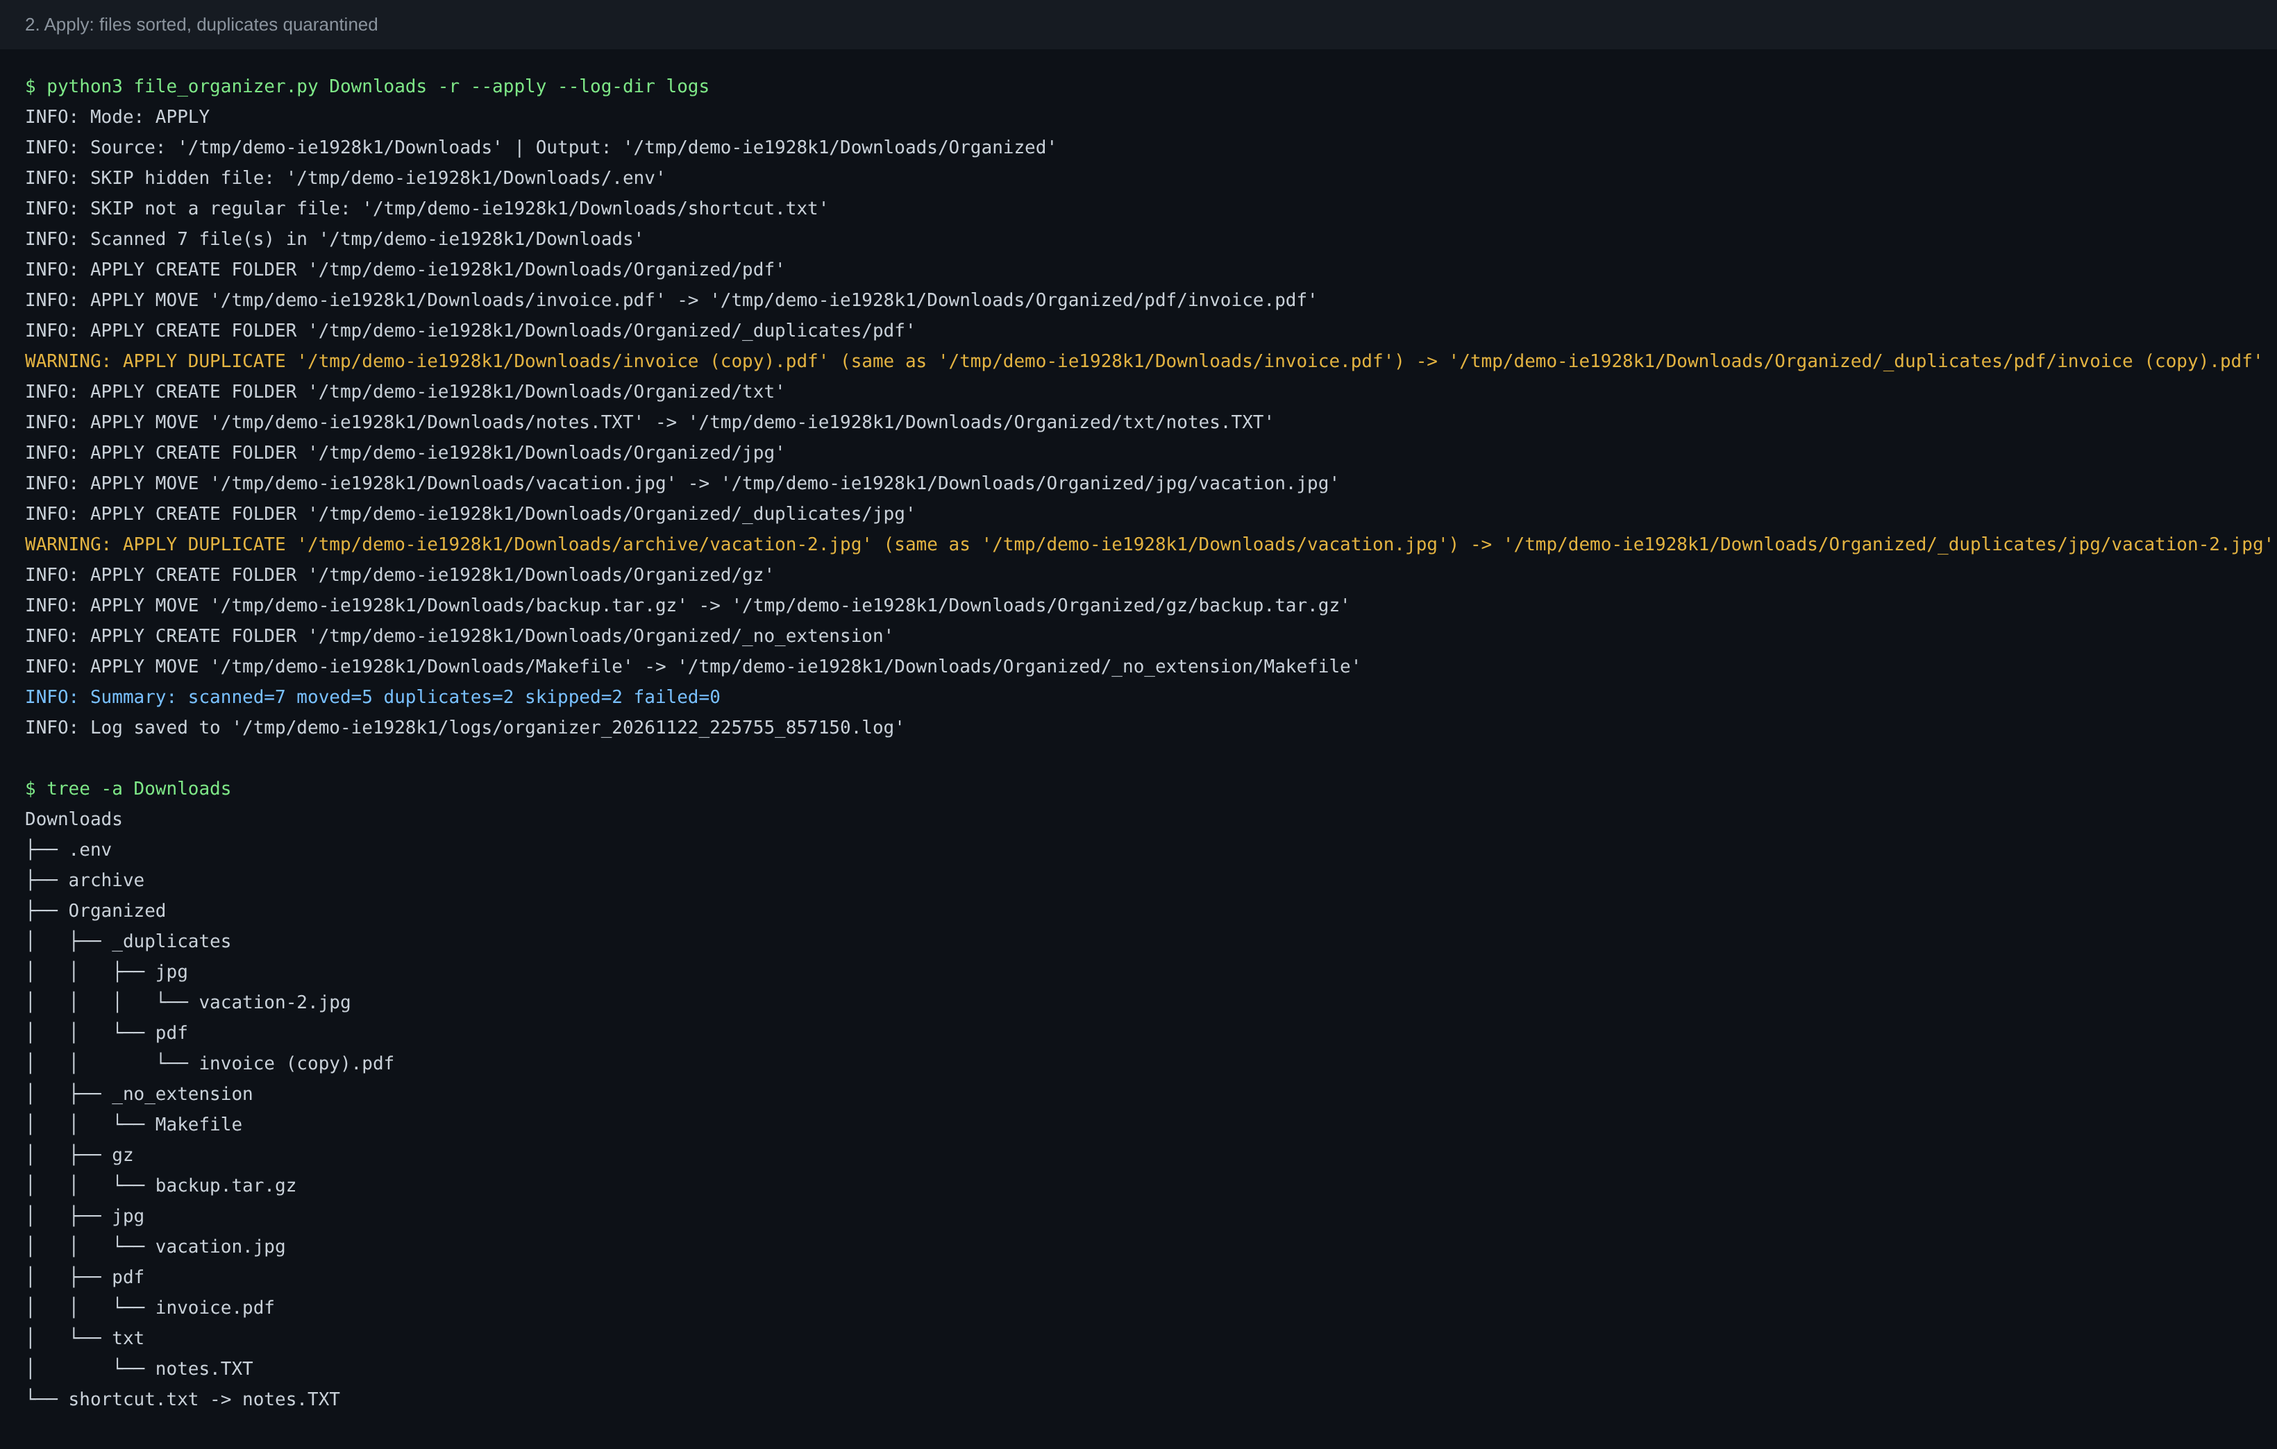
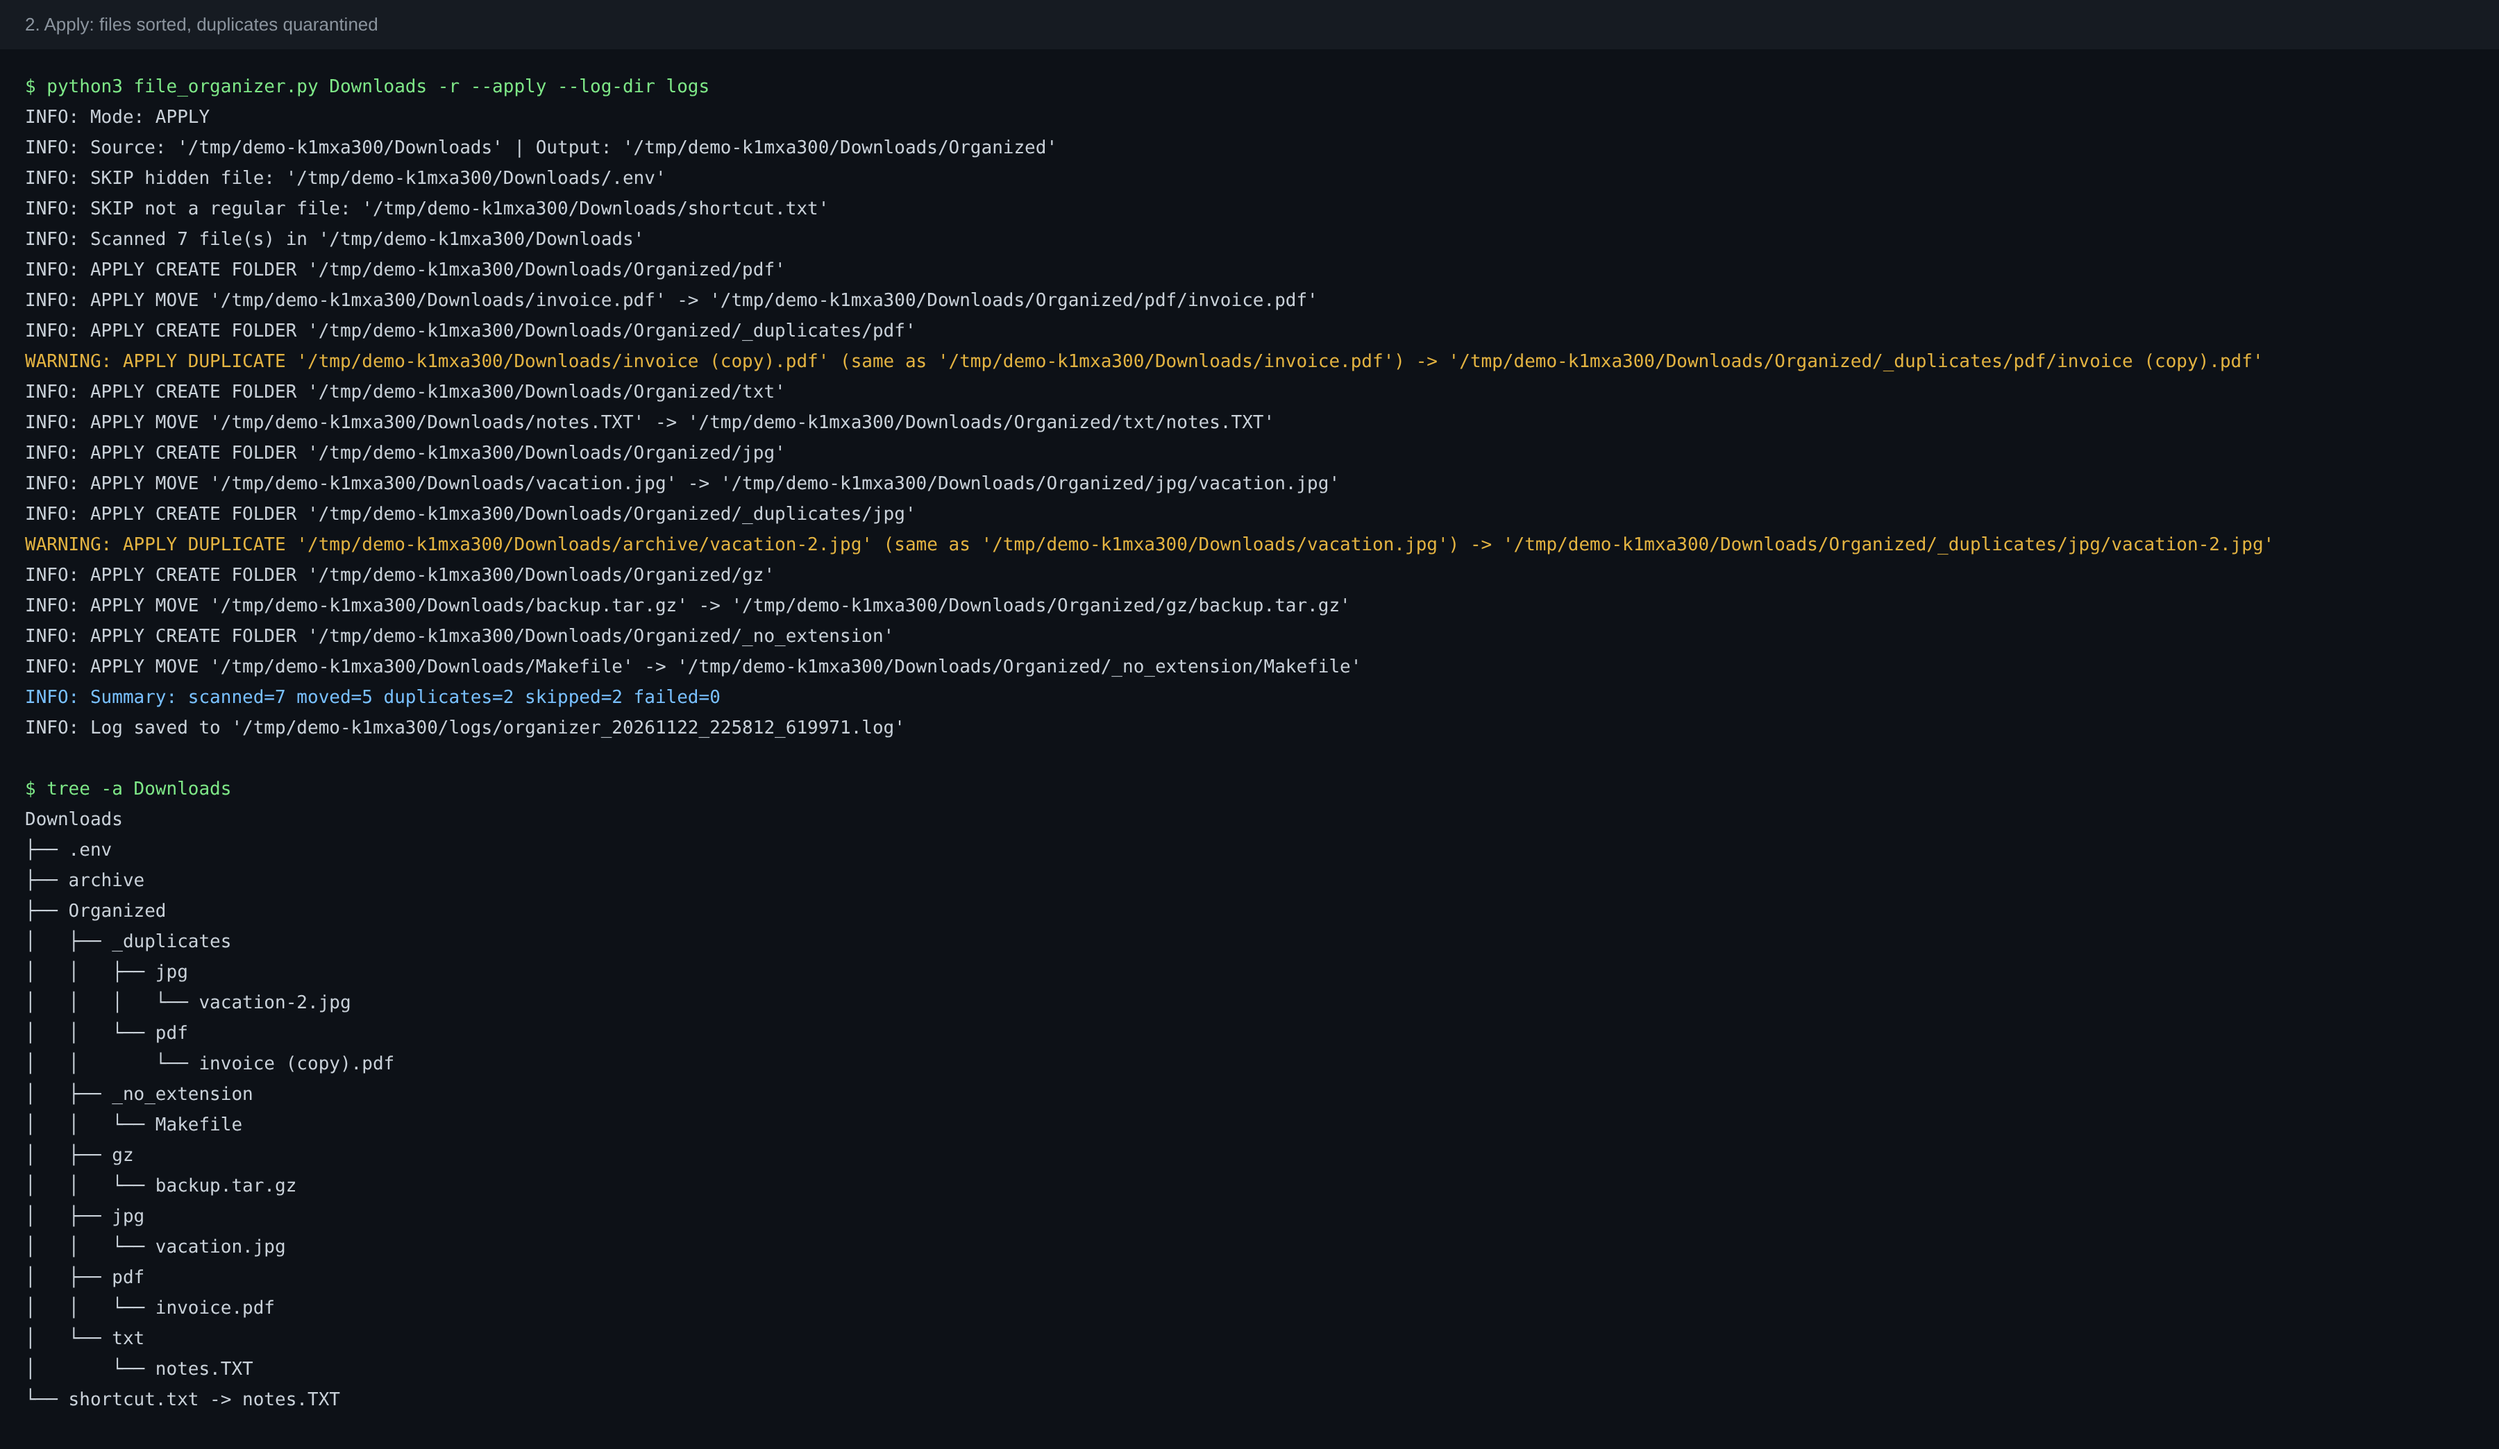
Fix script permissions and widen demo screenshots

diff --git a/docs/generate_demo.py b/docs/generate_demo.py
@@ -17,7 +17,7 @@ from pathlib import Path
 
 DOCS = Path(__file__).resolve().parent
 SCRIPT = DOCS.parent / "file_organizer.py"
-WIDTH = 1640
+WIDTH = 1800
 LINE_HEIGHT = 22
 SAMPLES = {
     "invoice.pdf": "invoice-2026",
